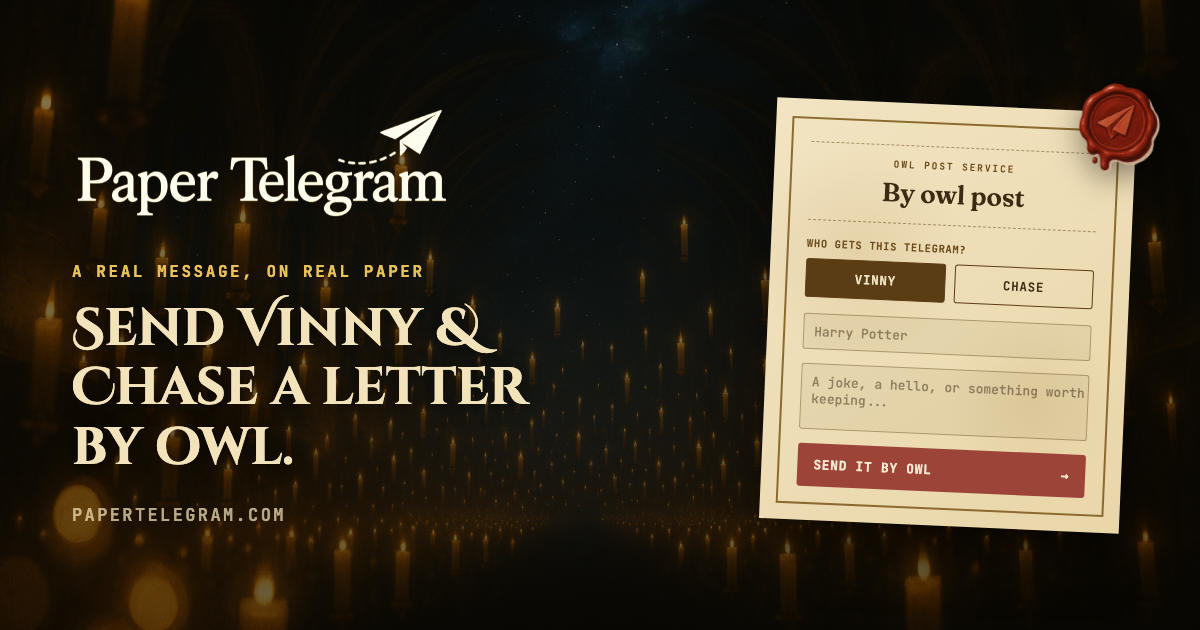
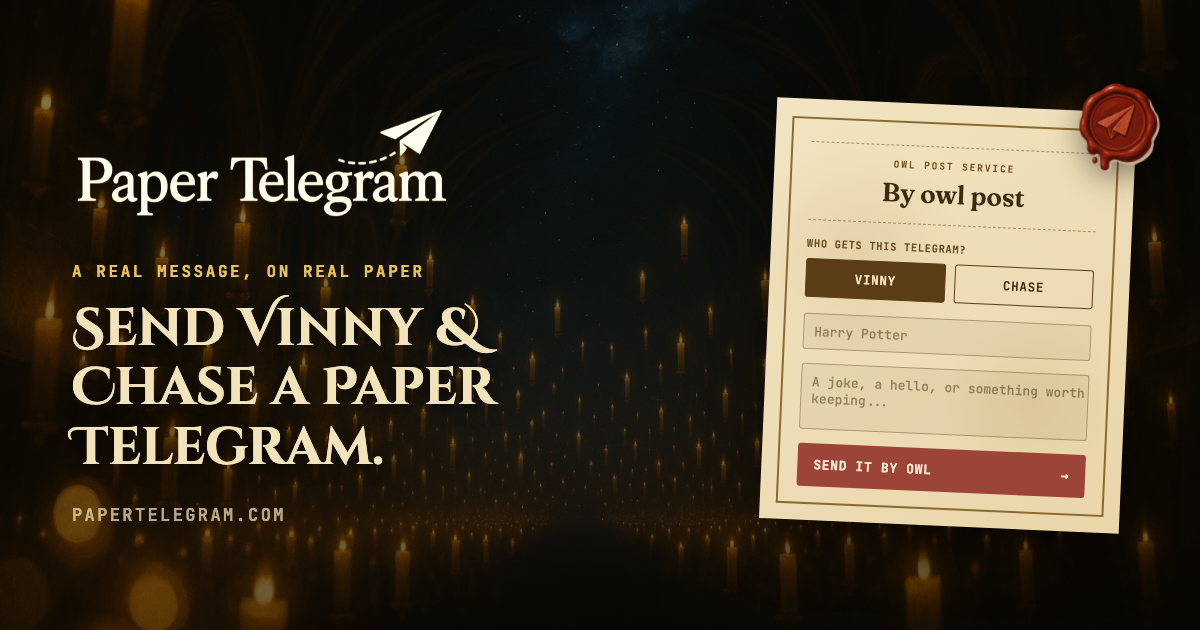
Keep Paper Telegram as the headline on the owl post social card

Changed region(s): [[0.0617, 0.573, 0.4317, 0.754]]

diff --git a/papertelegram.com/app/page.tsx b/papertelegram.com/app/page.tsx
@@ -12,8 +12,8 @@ export async function generateMetadata({ searchParams }: { searchParams: SearchP
   if (!owl) return {};
   return {
     openGraph: {
-      title: "Send Vinny & Chase a letter by owl",
-      description: "A real printer. A real piece of paper. A letter delivered by owl.",
+      title: "Send Vinny & Chase a Paper Telegram",
+      description: "A real printer. A real piece of paper. A message just for them.",
       type: "website",
       url: "/?theme=owl-post",
       images: [
@@ -27,8 +27,8 @@ export async function generateMetadata({ searchParams }: { searchParams: SearchP
     },
     twitter: {
       card: "summary_large_image",
-      title: "Send Vinny & Chase a letter by owl",
-      description: "A real printer. A real piece of paper. A letter delivered by owl.",
+      title: "Send Vinny & Chase a Paper Telegram",
+      description: "A real printer. A real piece of paper. A message just for them.",
       images: ["/og-owl.png"],
     },
   };
